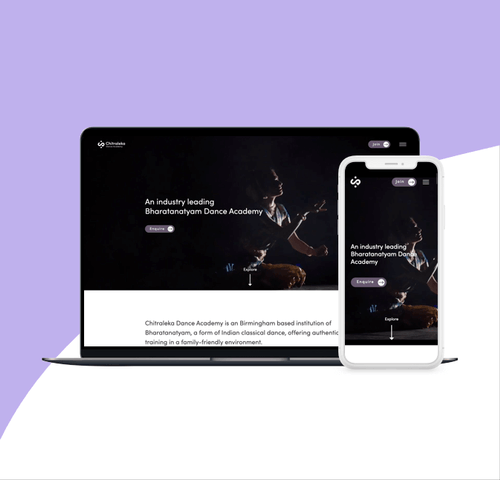
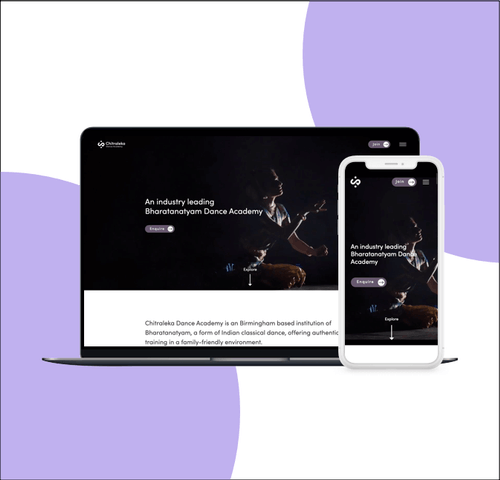
Chitraleka Thumbnail updated and minor fixes

diff --git a/index.html b/index.html
@@ -1,6 +1,6 @@
 <!DOCTYPE html>
 <!--  This site was created in Webflow. http://www.webflow.com  -->
-<!--  Last Published: Sun Aug 02 2020 12:47:16 GMT+0000 (Coordinated Universal Time)  -->
+<!--  Last Published: Sun Aug 02 2020 18:33:20 GMT+0000 (Coordinated Universal Time)  -->
 <html data-wf-page="5f03a5668934bbd5f1058aef" data-wf-site="5f03a5668934bb26b9058aee">
 <head>
   <meta charset="utf-8">
@@ -55,7 +55,7 @@
         <p class="body-large">An end-to-end design for a wedding planner app unlike any other.<br></p>
       </div><a href="wedkit-case-study.html" class="portfolio-button w-button">View Case Study</a></div>
   </div>
-  <div class="container-grid-portfolio-section w-container"><a id="w-node-bafd4c35509a-f1058aef" href="optician-case-study.html" class="link-block-2 w-inline-block"><img src="images/Chitraleka-Portfolio-Thumbnail.png" srcset="images/Chitraleka-Portfolio-Thumbnail-p-500.png 500w, images/Chitraleka-Portfolio-Thumbnail.png 673w" sizes="(max-width: 479px) 93vw, (max-width: 708px) 95vw, (max-width: 767px) 673px, (max-width: 991px) 352px, 430px" alt="" class="gallery-image"></a>
+  <div class="container-grid-portfolio-section w-container"><a id="w-node-bafd4c35509a-f1058aef" href="optician-case-study.html" class="link-block-2 w-inline-block"><img src="images/Chitraleka-Portfolio-Thumbnail.png" srcset="images/Chitraleka-Portfolio-Thumbnail.png 500w, images/Chitraleka-Portfolio-Thumbnail.png 673w" sizes="(max-width: 479px) 93vw, (max-width: 708px) 95vw, (max-width: 767px) 673px, (max-width: 991px) 352px, 430px" alt="" class="gallery-image"></a>
     <div class="portfolio-section-body">
       <div class="portfolio-section-text">
         <h3 class="bold sub-heading">Chitraleka Dance Website and Branding<br></h3>

diff --git a/about.html b/about.html
@@ -1,6 +1,6 @@
 <!DOCTYPE html>
 <!--  This site was created in Webflow. http://www.webflow.com  -->
-<!--  Last Published: Sun Aug 02 2020 12:47:16 GMT+0000 (Coordinated Universal Time)  -->
+<!--  Last Published: Sun Aug 02 2020 18:33:20 GMT+0000 (Coordinated Universal Time)  -->
 <html data-wf-page="5f11d7efee4a89ed9aaead1b" data-wf-site="5f03a5668934bb26b9058aee">
 <head>
   <meta charset="utf-8">

diff --git a/optician-case-study.html b/optician-case-study.html
@@ -1,6 +1,6 @@
 <!DOCTYPE html>
 <!--  This site was created in Webflow. http://www.webflow.com  -->
-<!--  Last Published: Sun Aug 02 2020 12:47:16 GMT+0000 (Coordinated Universal Time)  -->
+<!--  Last Published: Sun Aug 02 2020 18:33:20 GMT+0000 (Coordinated Universal Time)  -->
 <html data-wf-page="5f0460ea7e3d4fe5db7a0eb1" data-wf-site="5f03a5668934bb26b9058aee">
 <head>
   <meta charset="utf-8">

diff --git a/styleguide.html b/styleguide.html
@@ -1,6 +1,6 @@
 <!DOCTYPE html>
 <!--  This site was created in Webflow. http://www.webflow.com  -->
-<!--  Last Published: Sun Aug 02 2020 12:47:16 GMT+0000 (Coordinated Universal Time)  -->
+<!--  Last Published: Sun Aug 02 2020 18:33:20 GMT+0000 (Coordinated Universal Time)  -->
 <html data-wf-page="5f03a78e99bb8b18552f4c89" data-wf-site="5f03a5668934bb26b9058aee">
 <head>
   <meta charset="utf-8">

diff --git a/wedkit-case-study.html b/wedkit-case-study.html
@@ -1,6 +1,6 @@
 <!DOCTYPE html>
 <!--  This site was created in Webflow. http://www.webflow.com  -->
-<!--  Last Published: Sun Aug 02 2020 12:47:16 GMT+0000 (Coordinated Universal Time)  -->
+<!--  Last Published: Sun Aug 02 2020 18:33:20 GMT+0000 (Coordinated Universal Time)  -->
 <html data-wf-page="5f2185cf7eaf485268b9e403" data-wf-site="5f03a5668934bb26b9058aee">
 <head>
   <meta charset="utf-8">
